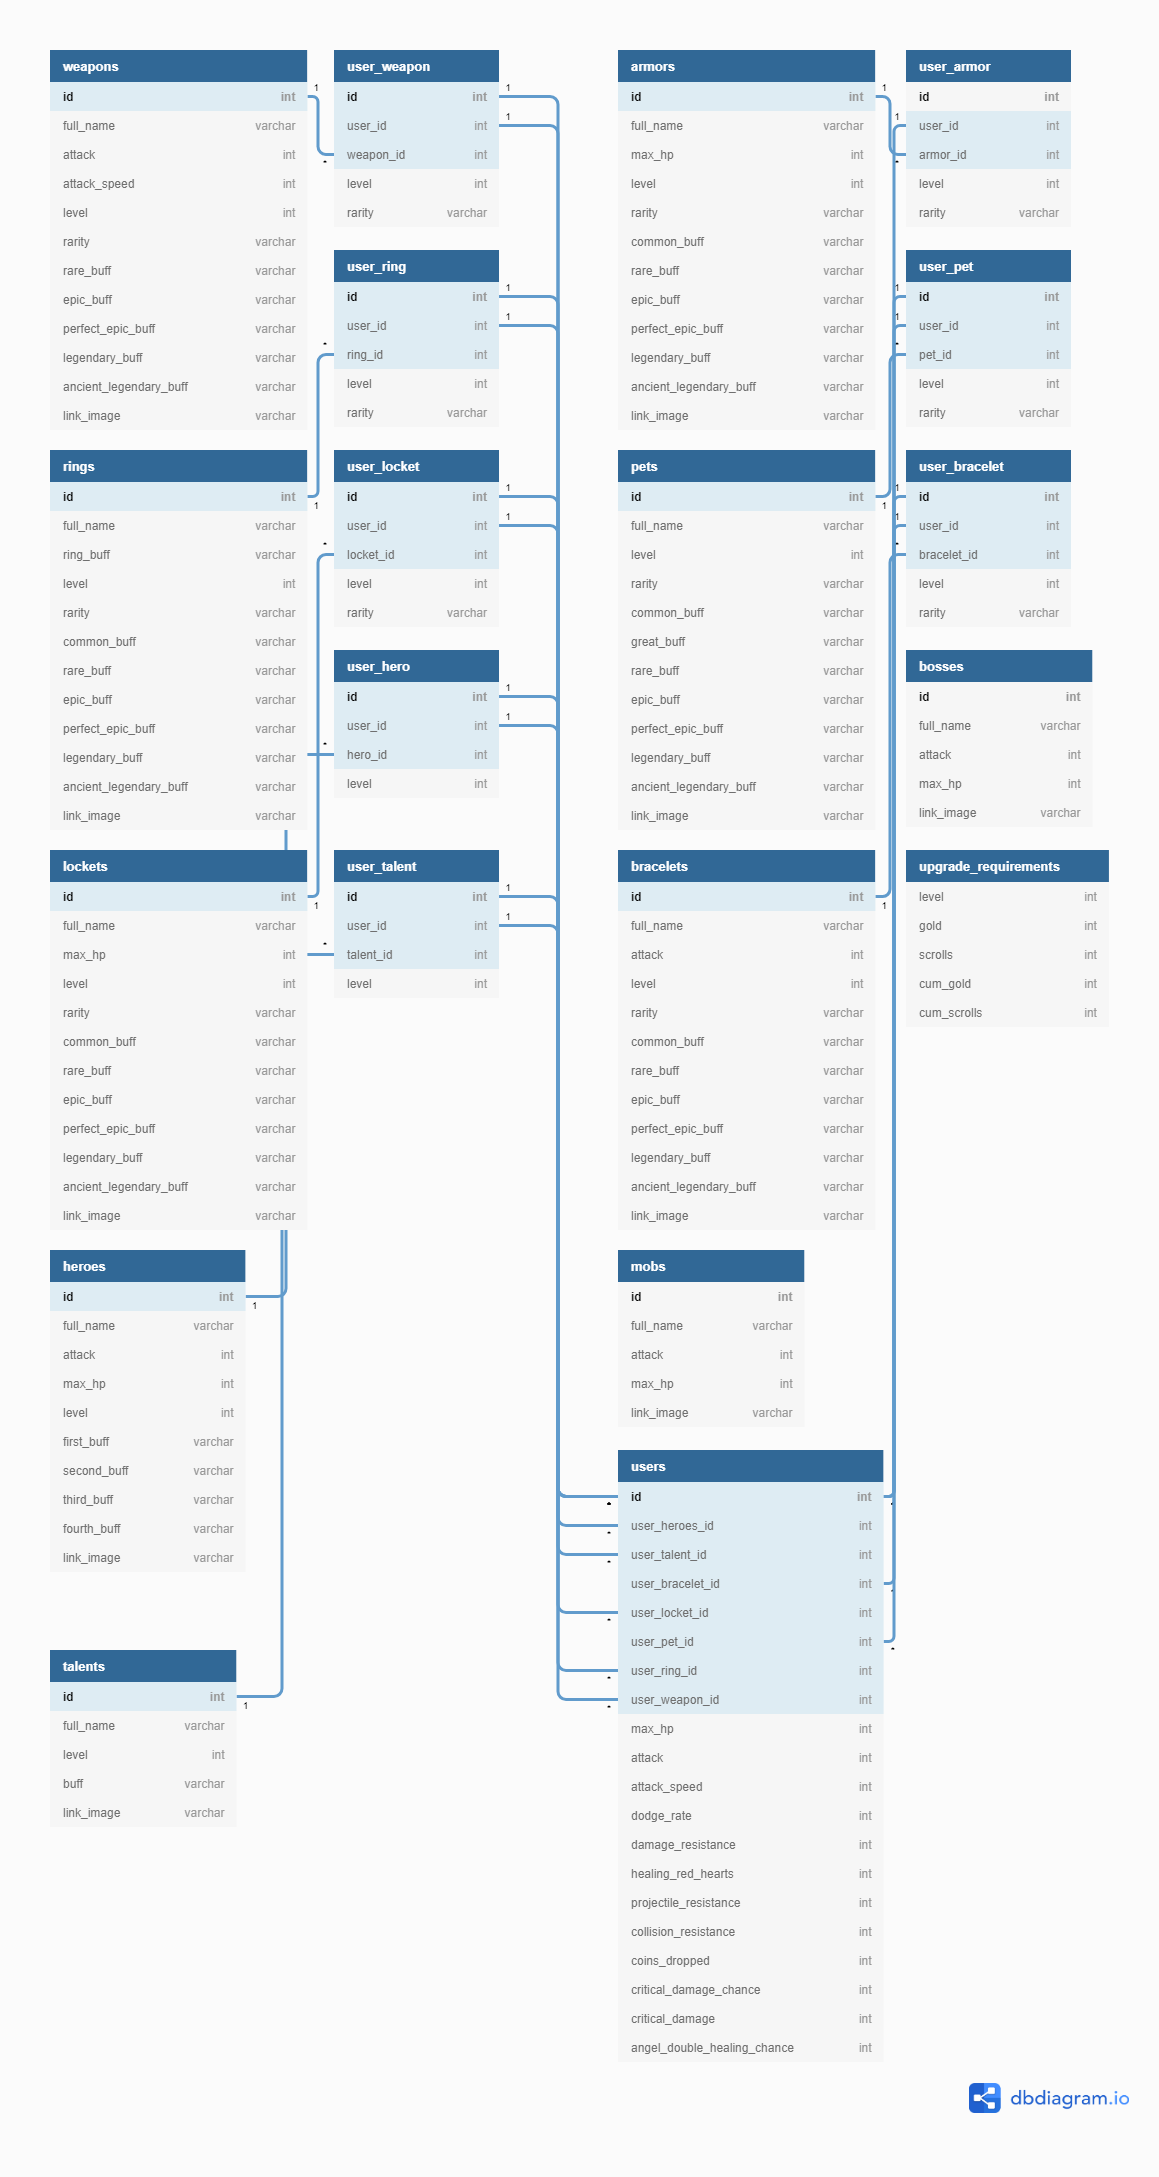
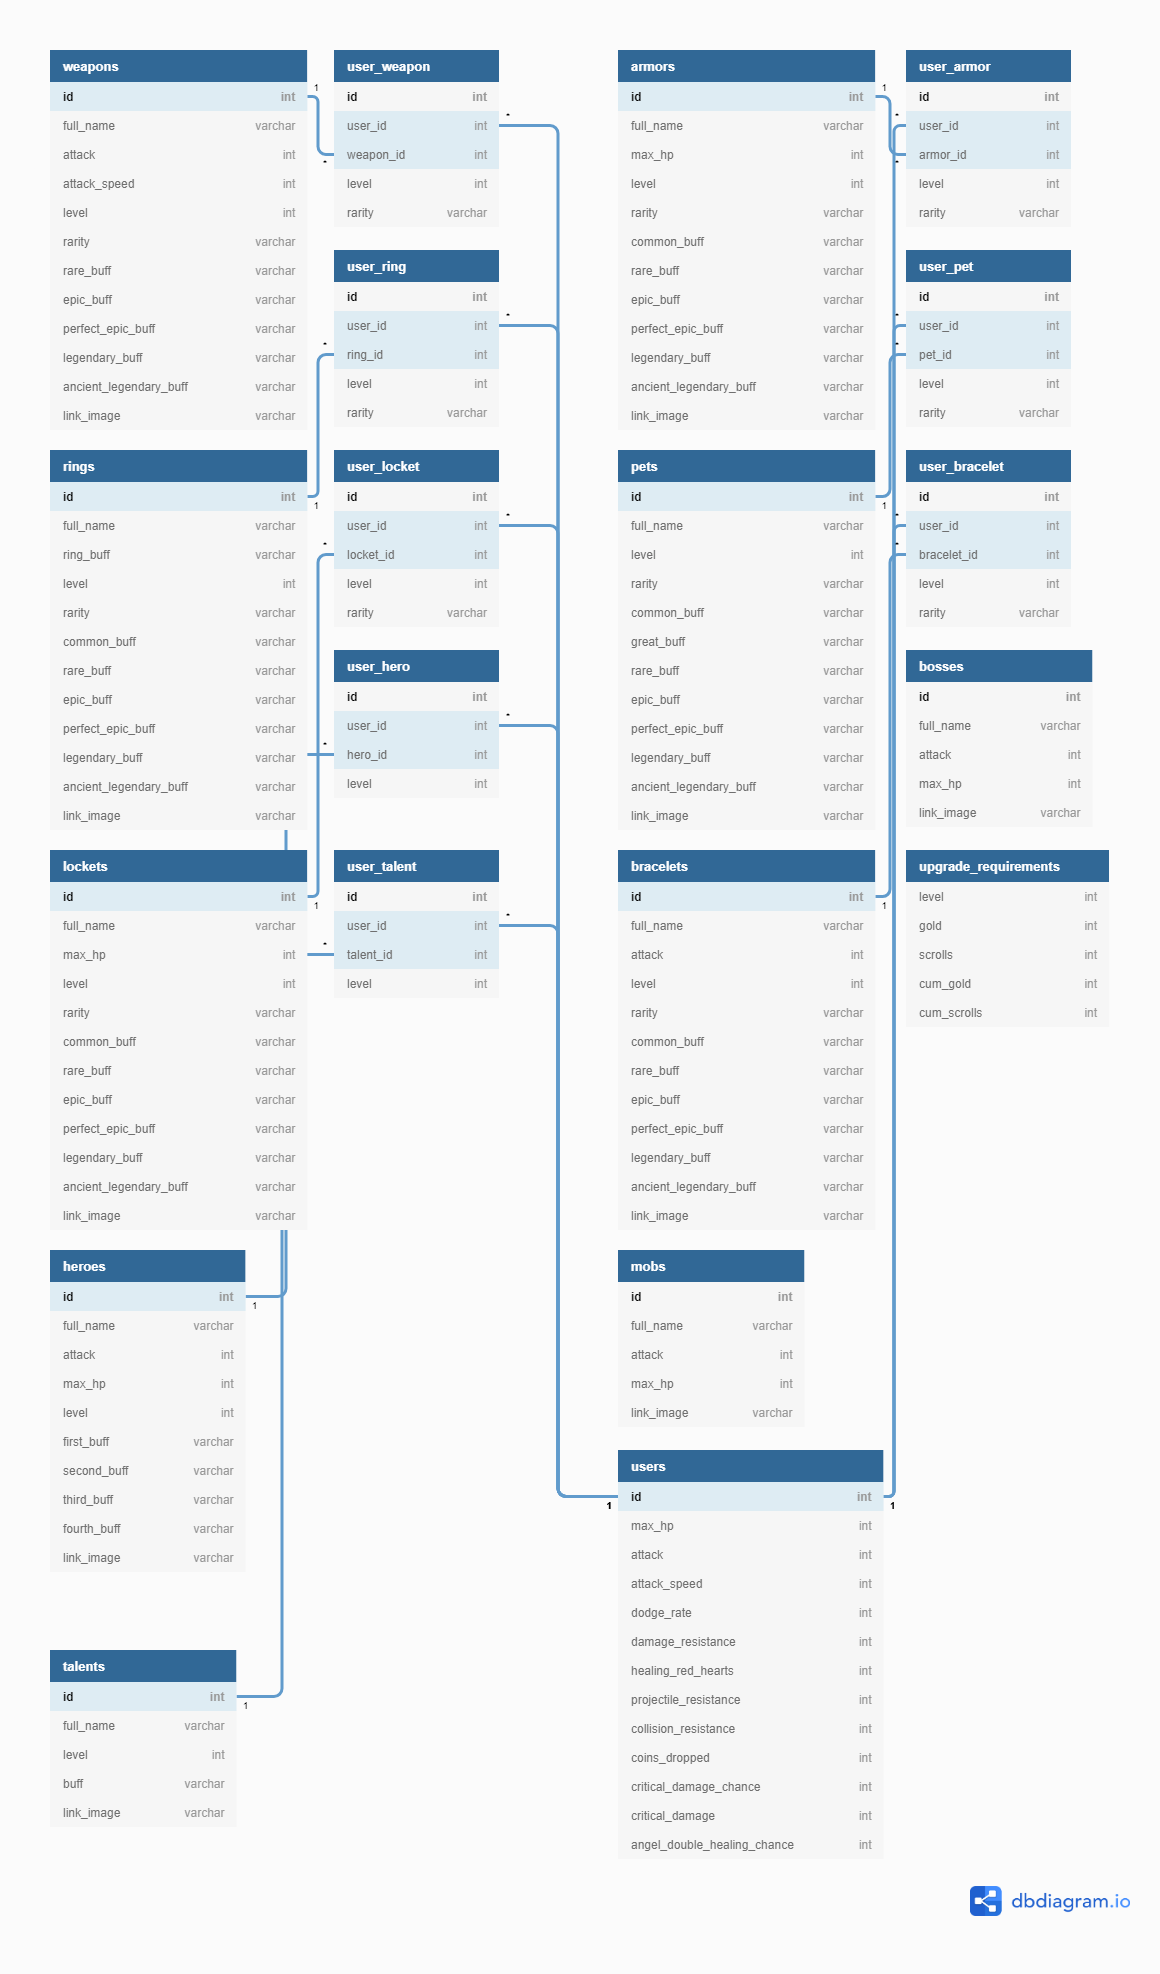
modif bdd + modif readme

Changed region(s): [[0.4659, 0.0, 0.9629, 0.958], [0.0311, 0.0, 0.497, 0.9271]]

diff --git a/README.md b/README.md
@@ -6,3 +6,16 @@ La petite saucisse
 Ouai ouai le test
 
 https://archero.fandom.com/wiki
+
+Dans le .env tu peux changer le nom de ton projet, le port de phpmyadmin et le port de mariadb
+Depuis le dossier :
+Pour utiliser : docker-compose up (ça utilise un terminal)
+Pour éteindre : CTRL+C et ensuite docker-compose down
+Si jamais tu veux remove ton volume de db : docker volume ls et tu récupère le volume avec le nom de ton projet, ensuite docker volume rm {lenom}
+Une commande utile : docker volume prune (attention ça remove tous les volumes non utilisés)
+
+
+Commande pour insert 1 item dans la bdd (pour test avant vrai remplissage)
+```
+INSERT INTO `armors`(`id`, `full_name`, `max_hp`, `level`, `rarity`, `common_buff`, `rare_buff`, `epic_buff`, `perfect_epic_buff`, `legendary_buff`, `ancient_legendary_buff`, `link_image`) VALUES (0,"Golden chestplate",100,0,"rarity","common_buff","rare_buff","epic_buff","perfect_epic_buff","legendary_buff","ancient_legendary_buff","link_image");
+```
